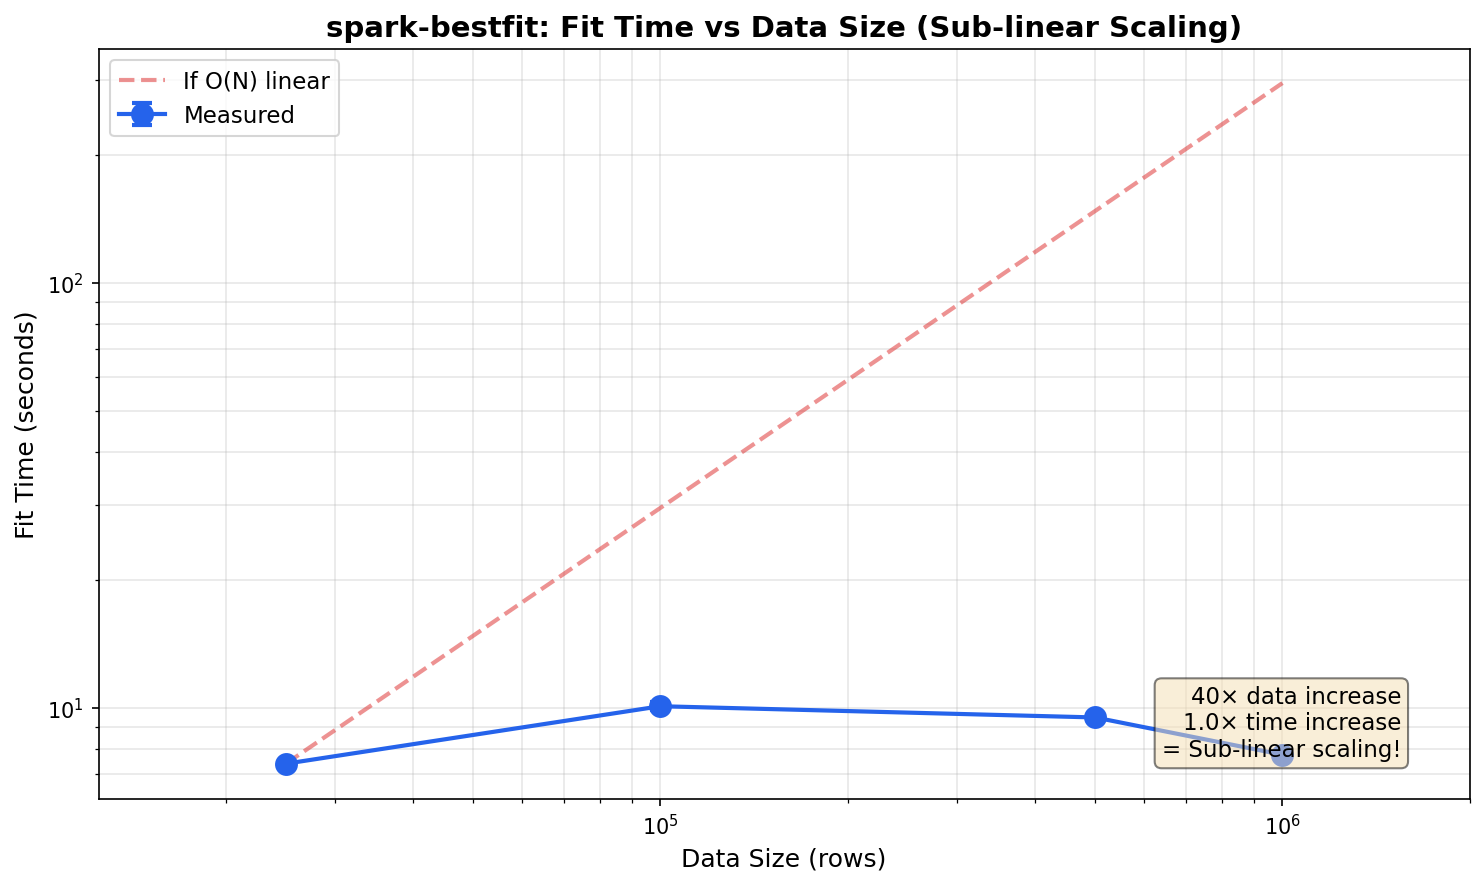
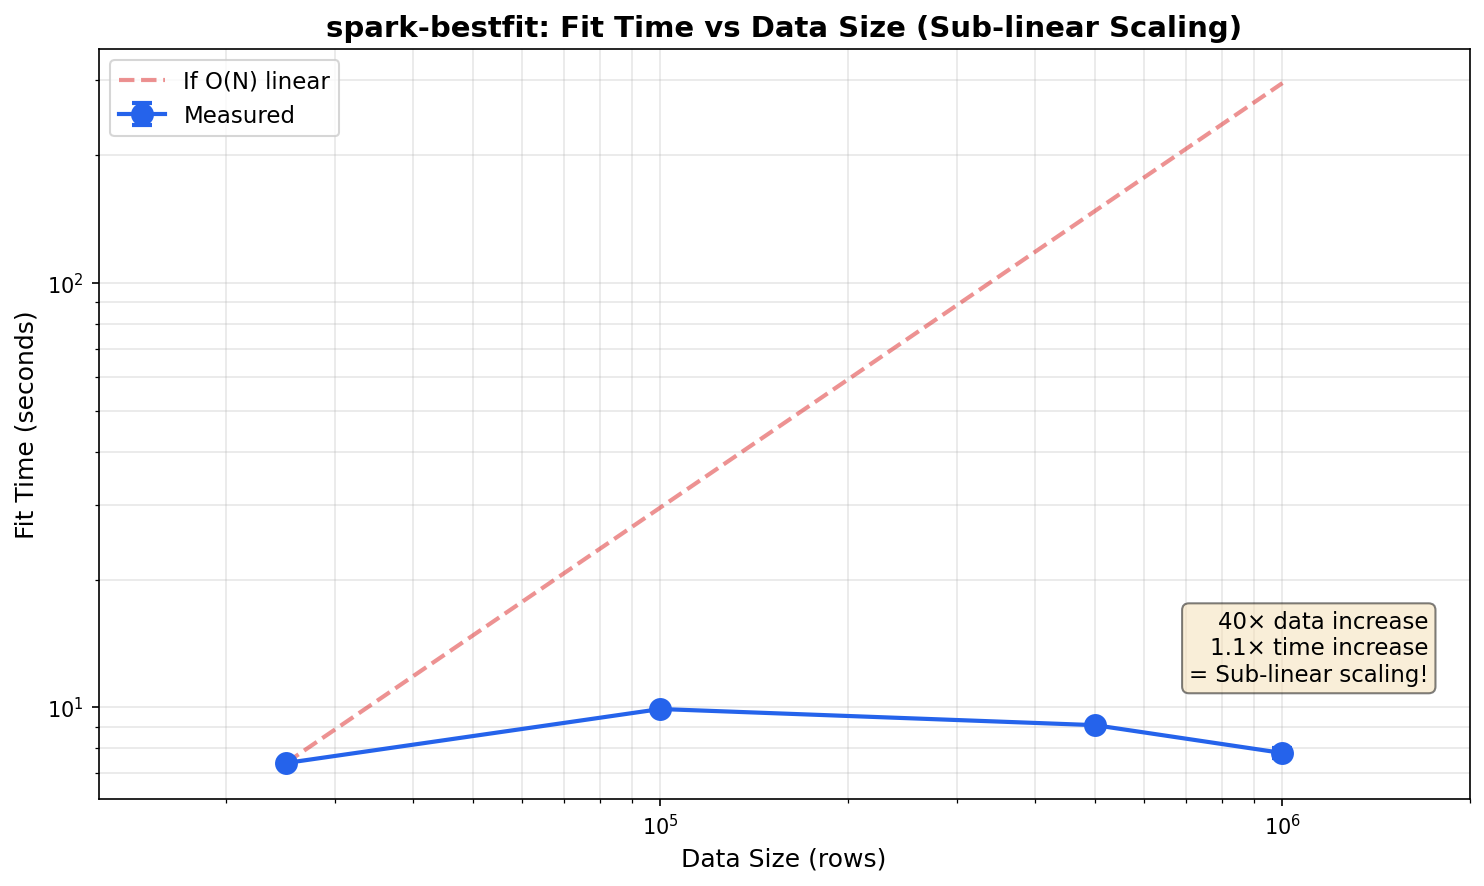
docs: update benchmarks with post-fix distribution counts

Changed region(s): [[0.341, 0.6704, 0.9919, 0.8837], [0.279, 0.8228, 0.341, 0.8533], [0.031, 0.7923, 0.062, 0.8228]]

diff --git a/scripts/generate_scaling_charts.py b/scripts/generate_scaling_charts.py
@@ -211,8 +211,8 @@ def generate_data_size_chart(data: dict, output_path: Path) -> None:
 
     # Add insight annotation
     ax.text(
-        0.95,
-        0.05,
+        0.97,
+        0.15,
         f"{data_increase:.0f}× data increase\n{time_increase:.1f}× time increase\n= Sub-linear scaling!",
         transform=ax.transAxes,
         fontsize=11,

diff --git a/docs/_static/benchmark_summary.md b/docs/_static/benchmark_summary.md
@@ -18,40 +18,40 @@
 
 | Data Size | Fit Time (mean) | Std Dev |
 |-----------|-----------------|---------|
-| 25,000 | 7.383s | ±0.043s |
-| 100,000 | 10.082s | ±0.226s |
-| 500,000 | 9.486s | ±0.143s |
-| 1,000,000 | 7.750s | ±0.113s |
+| 25,000 | 7.390s | ±0.070s |
+| 100,000 | 9.907s | ±0.049s |
+| 500,000 | 9.076s | ±0.053s |
+| 1,000,000 | 7.803s | ±0.202s |
 
 ## Distribution Count Scaling
 
 | # Distributions | Fit Time (mean) | Std Dev |
 |-----------------|-----------------|---------|
-| 5 | 0.542s | ±0.015s |
-| 20 | 1.084s | ±0.025s |
-| 50 | 2.036s | ±0.032s |
-| 90 | 8.754s | ±0.049s |
-| 107 | 10.297s | ±0.123s |
+| 5 | 0.563s | ±0.019s |
+| 20 | 1.218s | ±0.051s |
+| 50 | 2.079s | ±0.066s |
+| 90 | 8.874s | ±0.109s |
+| 107 | 9.995s | ±0.092s |
 
 ## Multi-Column Efficiency
 
 | Approach | Fit Time (mean) | Std Dev |
 |----------|-----------------|---------|
-| 3 Separate Fits | 3.580s | ±0.077s |
-| 1 Multi-Column Fit | 3.114s | ±0.086s |
+| 3 Separate Fits | 3.648s | ±0.045s |
+| 1 Multi-Column Fit | 3.079s | ±0.082s |
 
-**Speedup:** 1.1× faster (13% time saved)
+**Speedup:** 1.2× faster (16% time saved)
 
 ## Lazy Metrics Performance (v1.5.0+)
 
 | Mode | Fit Time (mean) | Std Dev | Speedup |
 |------|-----------------|---------|---------|
-| Eager (all metrics) | 9.892s | ±0.048s | baseline |
-| Lazy (AIC only) | 2.818s | ±0.038s | -72% |
-| Lazy (+ KS on-demand) | 2.886s | ±0.050s | -71% |
-| Lazy (+ materialize) | 5.463s | ±0.086s | -45% |
+| Eager (all metrics) | 10.417s | ±0.291s | baseline |
+| Lazy (AIC only) | 2.833s | ±0.065s | -73% |
+| Lazy (+ KS on-demand) | 2.836s | ±0.038s | -73% |
+| Lazy (+ materialize) | 5.437s | ±0.054s | -48% |
 
-**AIC-only workflow:** ~72% faster than eager fitting
+**AIC-only workflow:** ~73% faster than eager fitting
 
 ## New Exclusions (v1.7.0)
 
